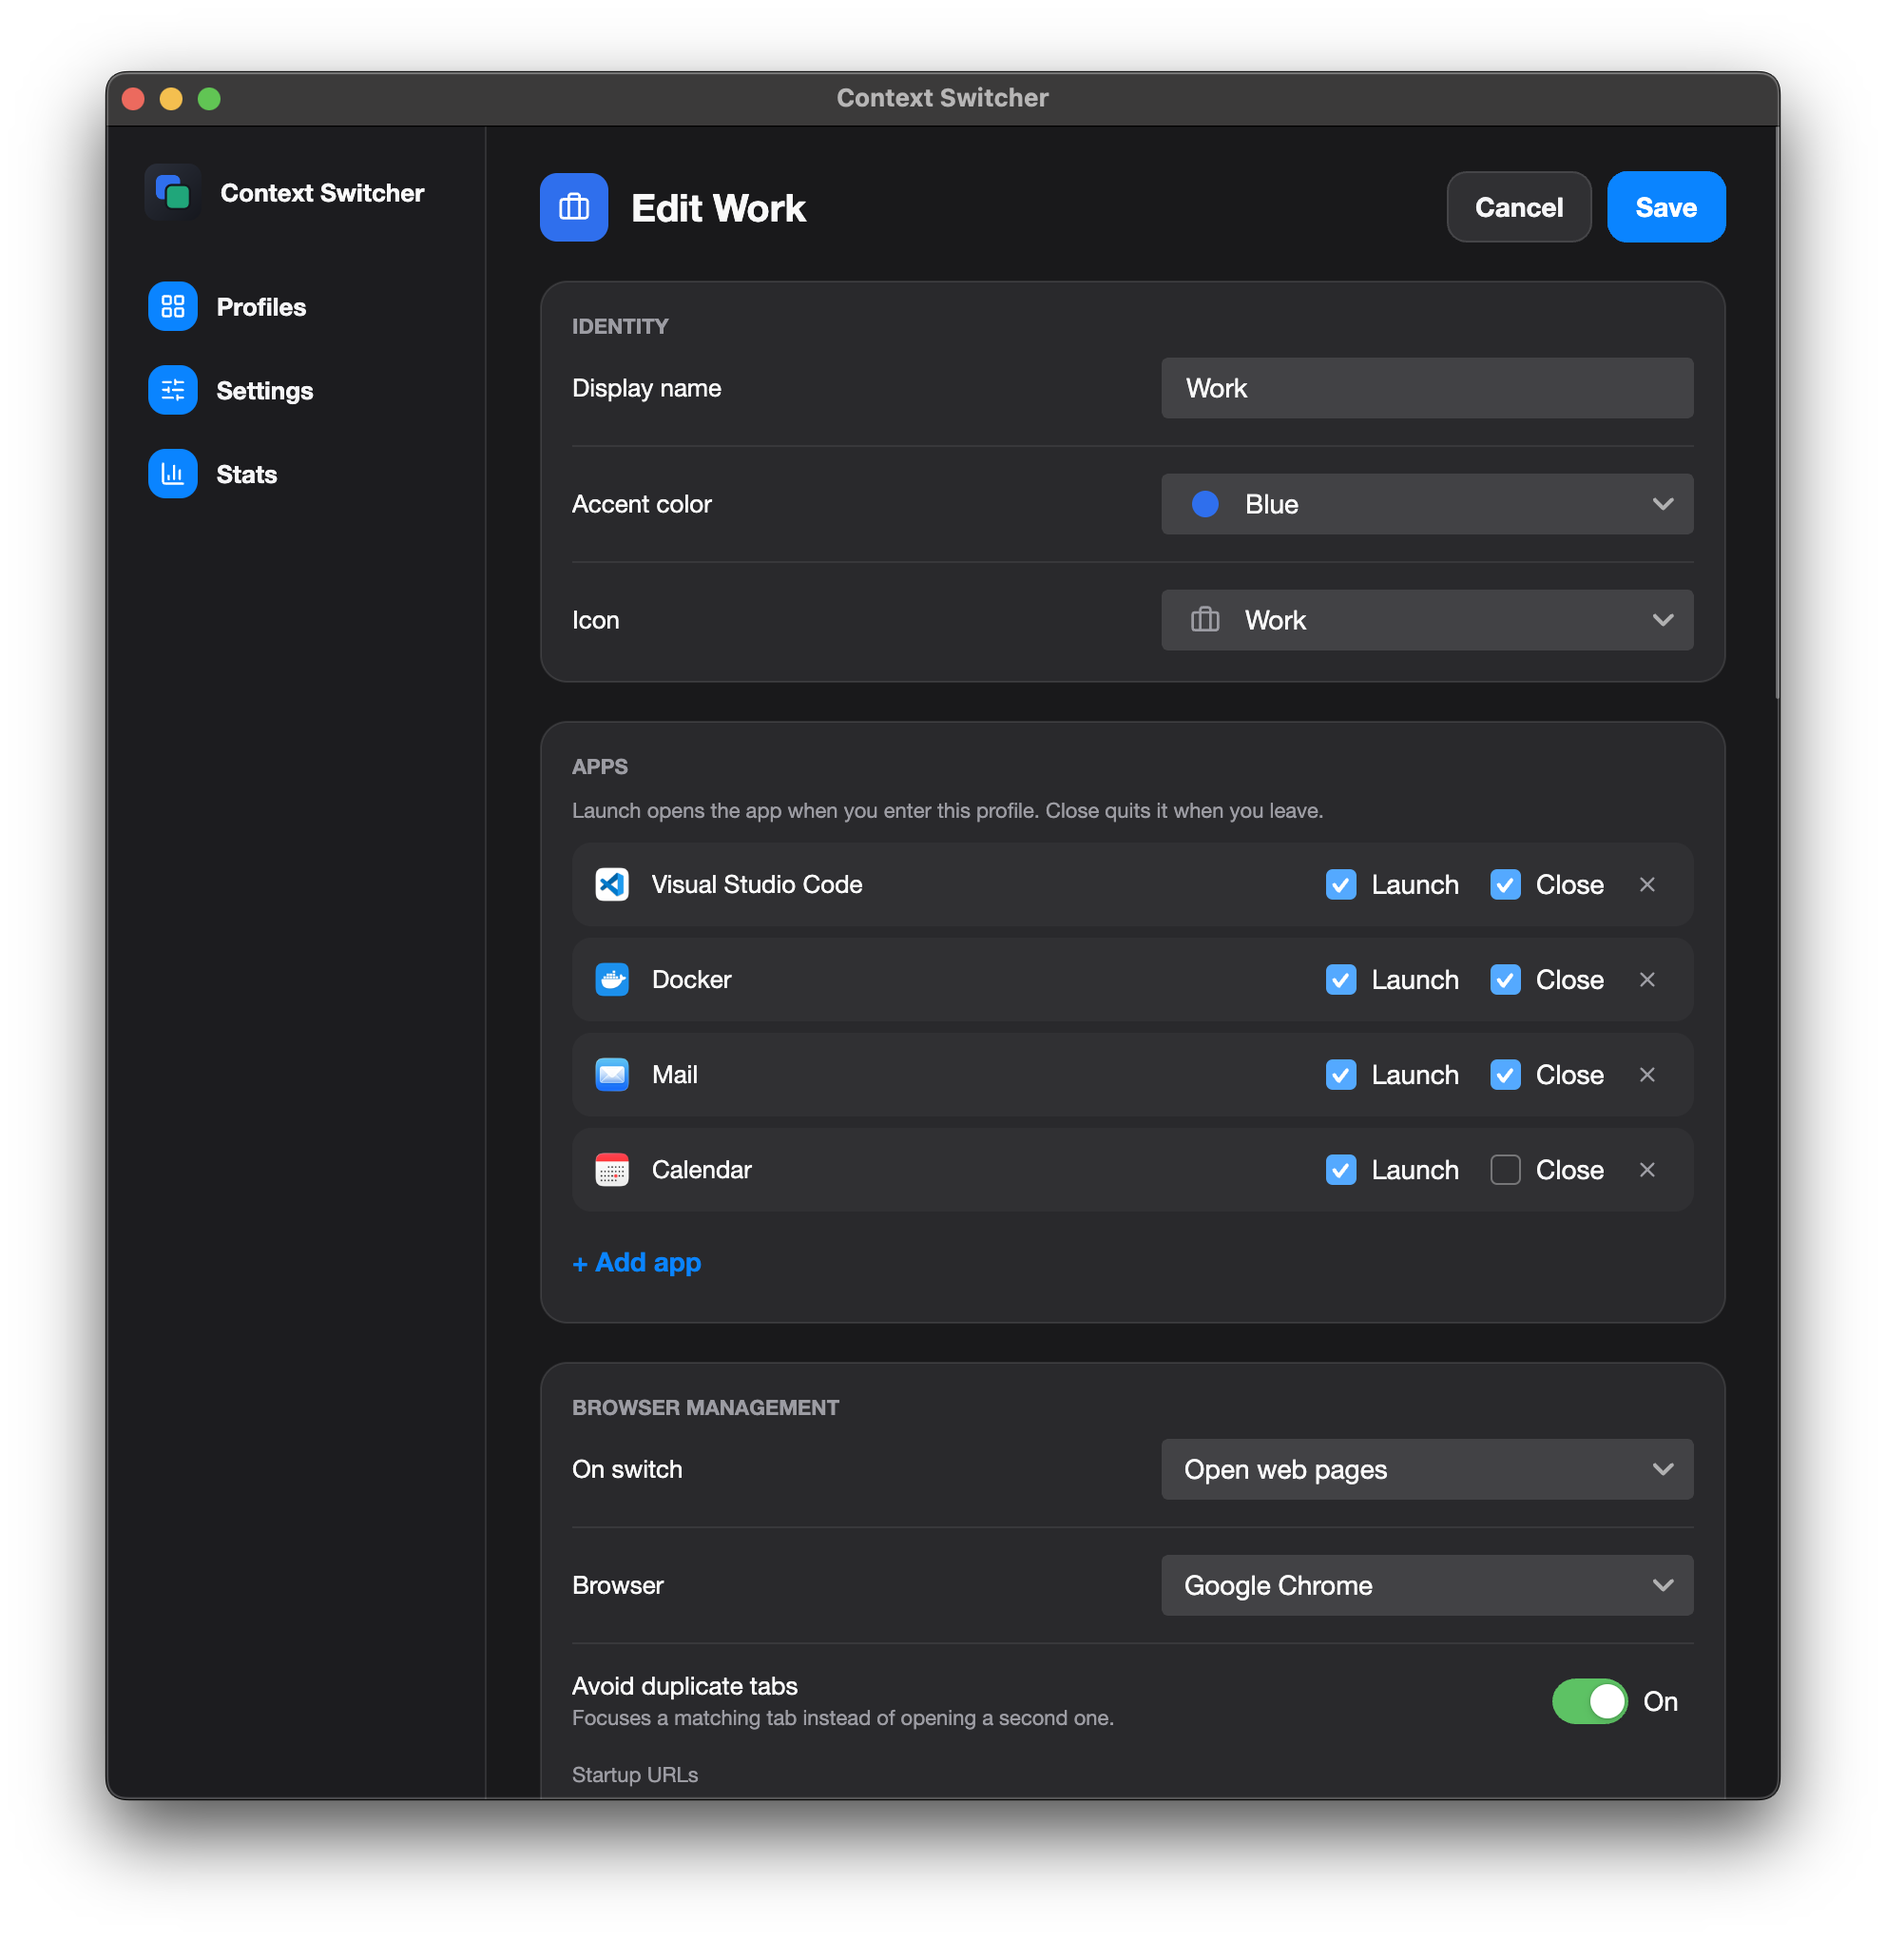
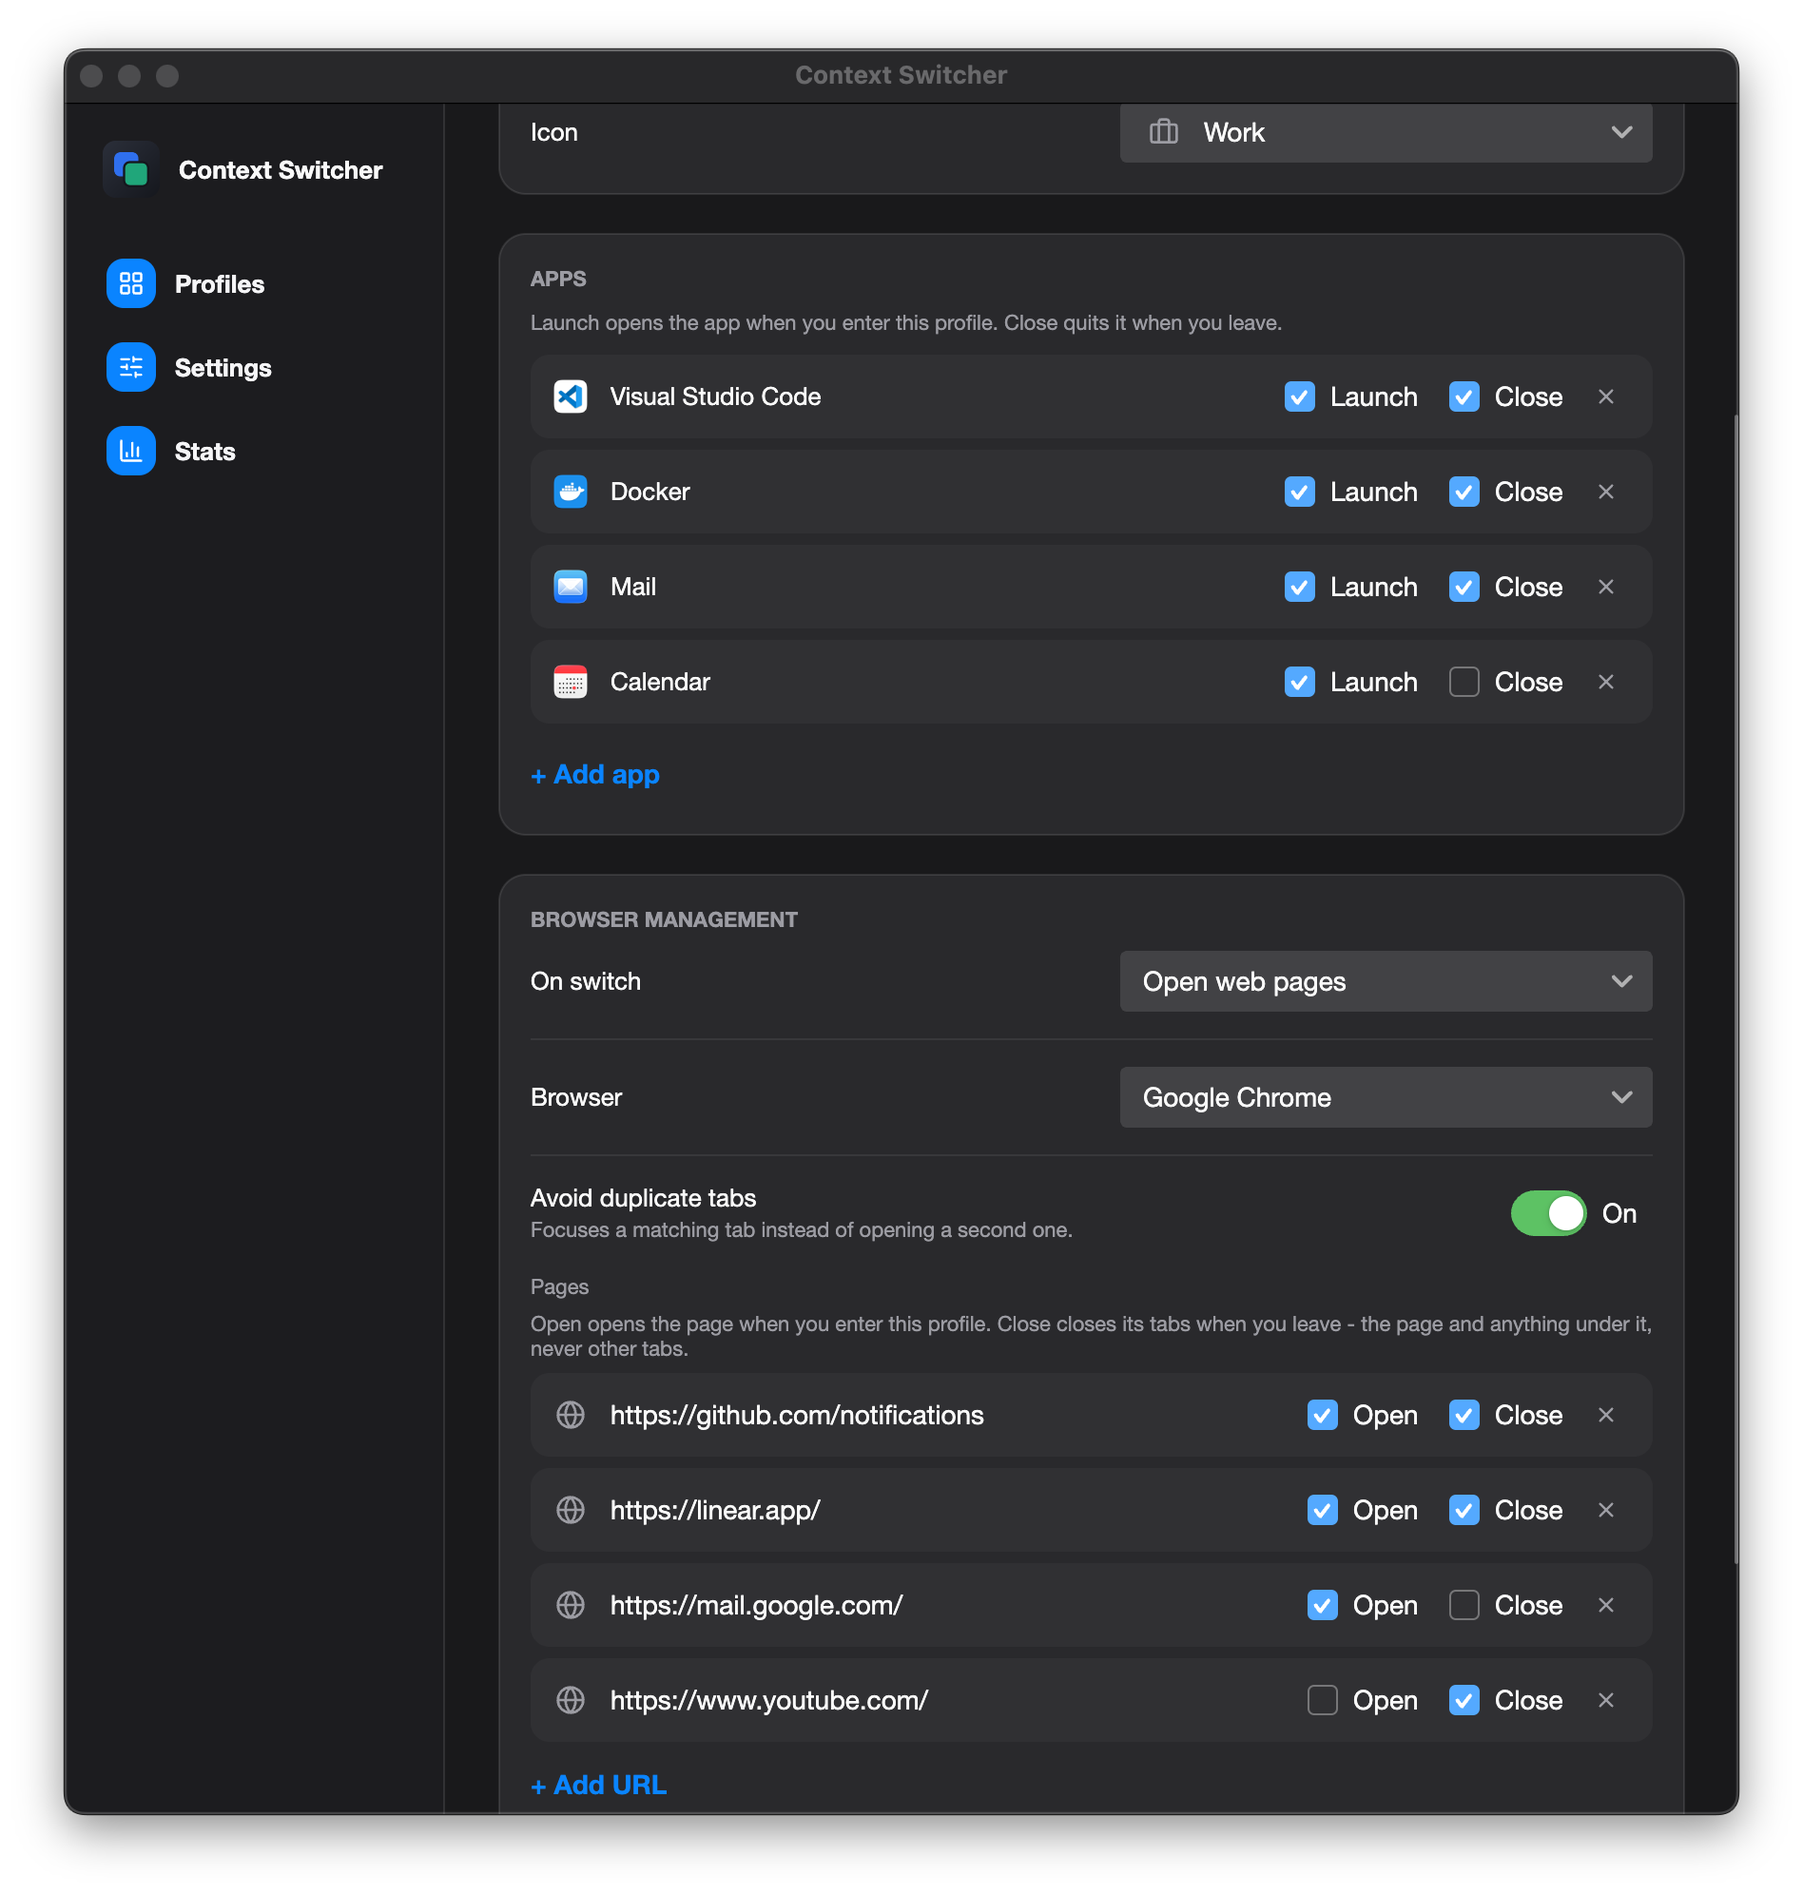
Retake the profile editor screenshots for the page rows
The README's profile editor screenshots still showed "Startup URLs" and no page rows. They are
retaken from the running app with demo data, scrolled to show the apps and the pages with Open and
Close, in light and dark.

diff --git a/README.md b/README.md
@@ -150,12 +150,13 @@ The **Profiles** page lists every profile: **Activate** switches to it, **Edit**
 </div>
 
 Editing a profile is mostly picking from lists: apps from the apps you have installed, web pages
-from the tabs you have open, playlists from your library, containers from Docker.
+from the tabs you have open, playlists from your library, containers from Docker. Apps and pages
+each have two ticks — open when you enter the profile, close when you leave it.
 
 <div align="center">
 <picture>
   <source media="(prefers-color-scheme: dark)" srcset="docs/images/profile-setup-dark.png">
-  <img src="docs/images/profile-setup-light.png" width="720" alt="Editing the Work profile: its name, color and icon, its apps and its browser pages">
+  <img src="docs/images/profile-setup-light.png" width="720" alt="Editing the Work profile: its apps with Launch and Close, and its pages with Open and Close">
 </picture>
 </div>
 
